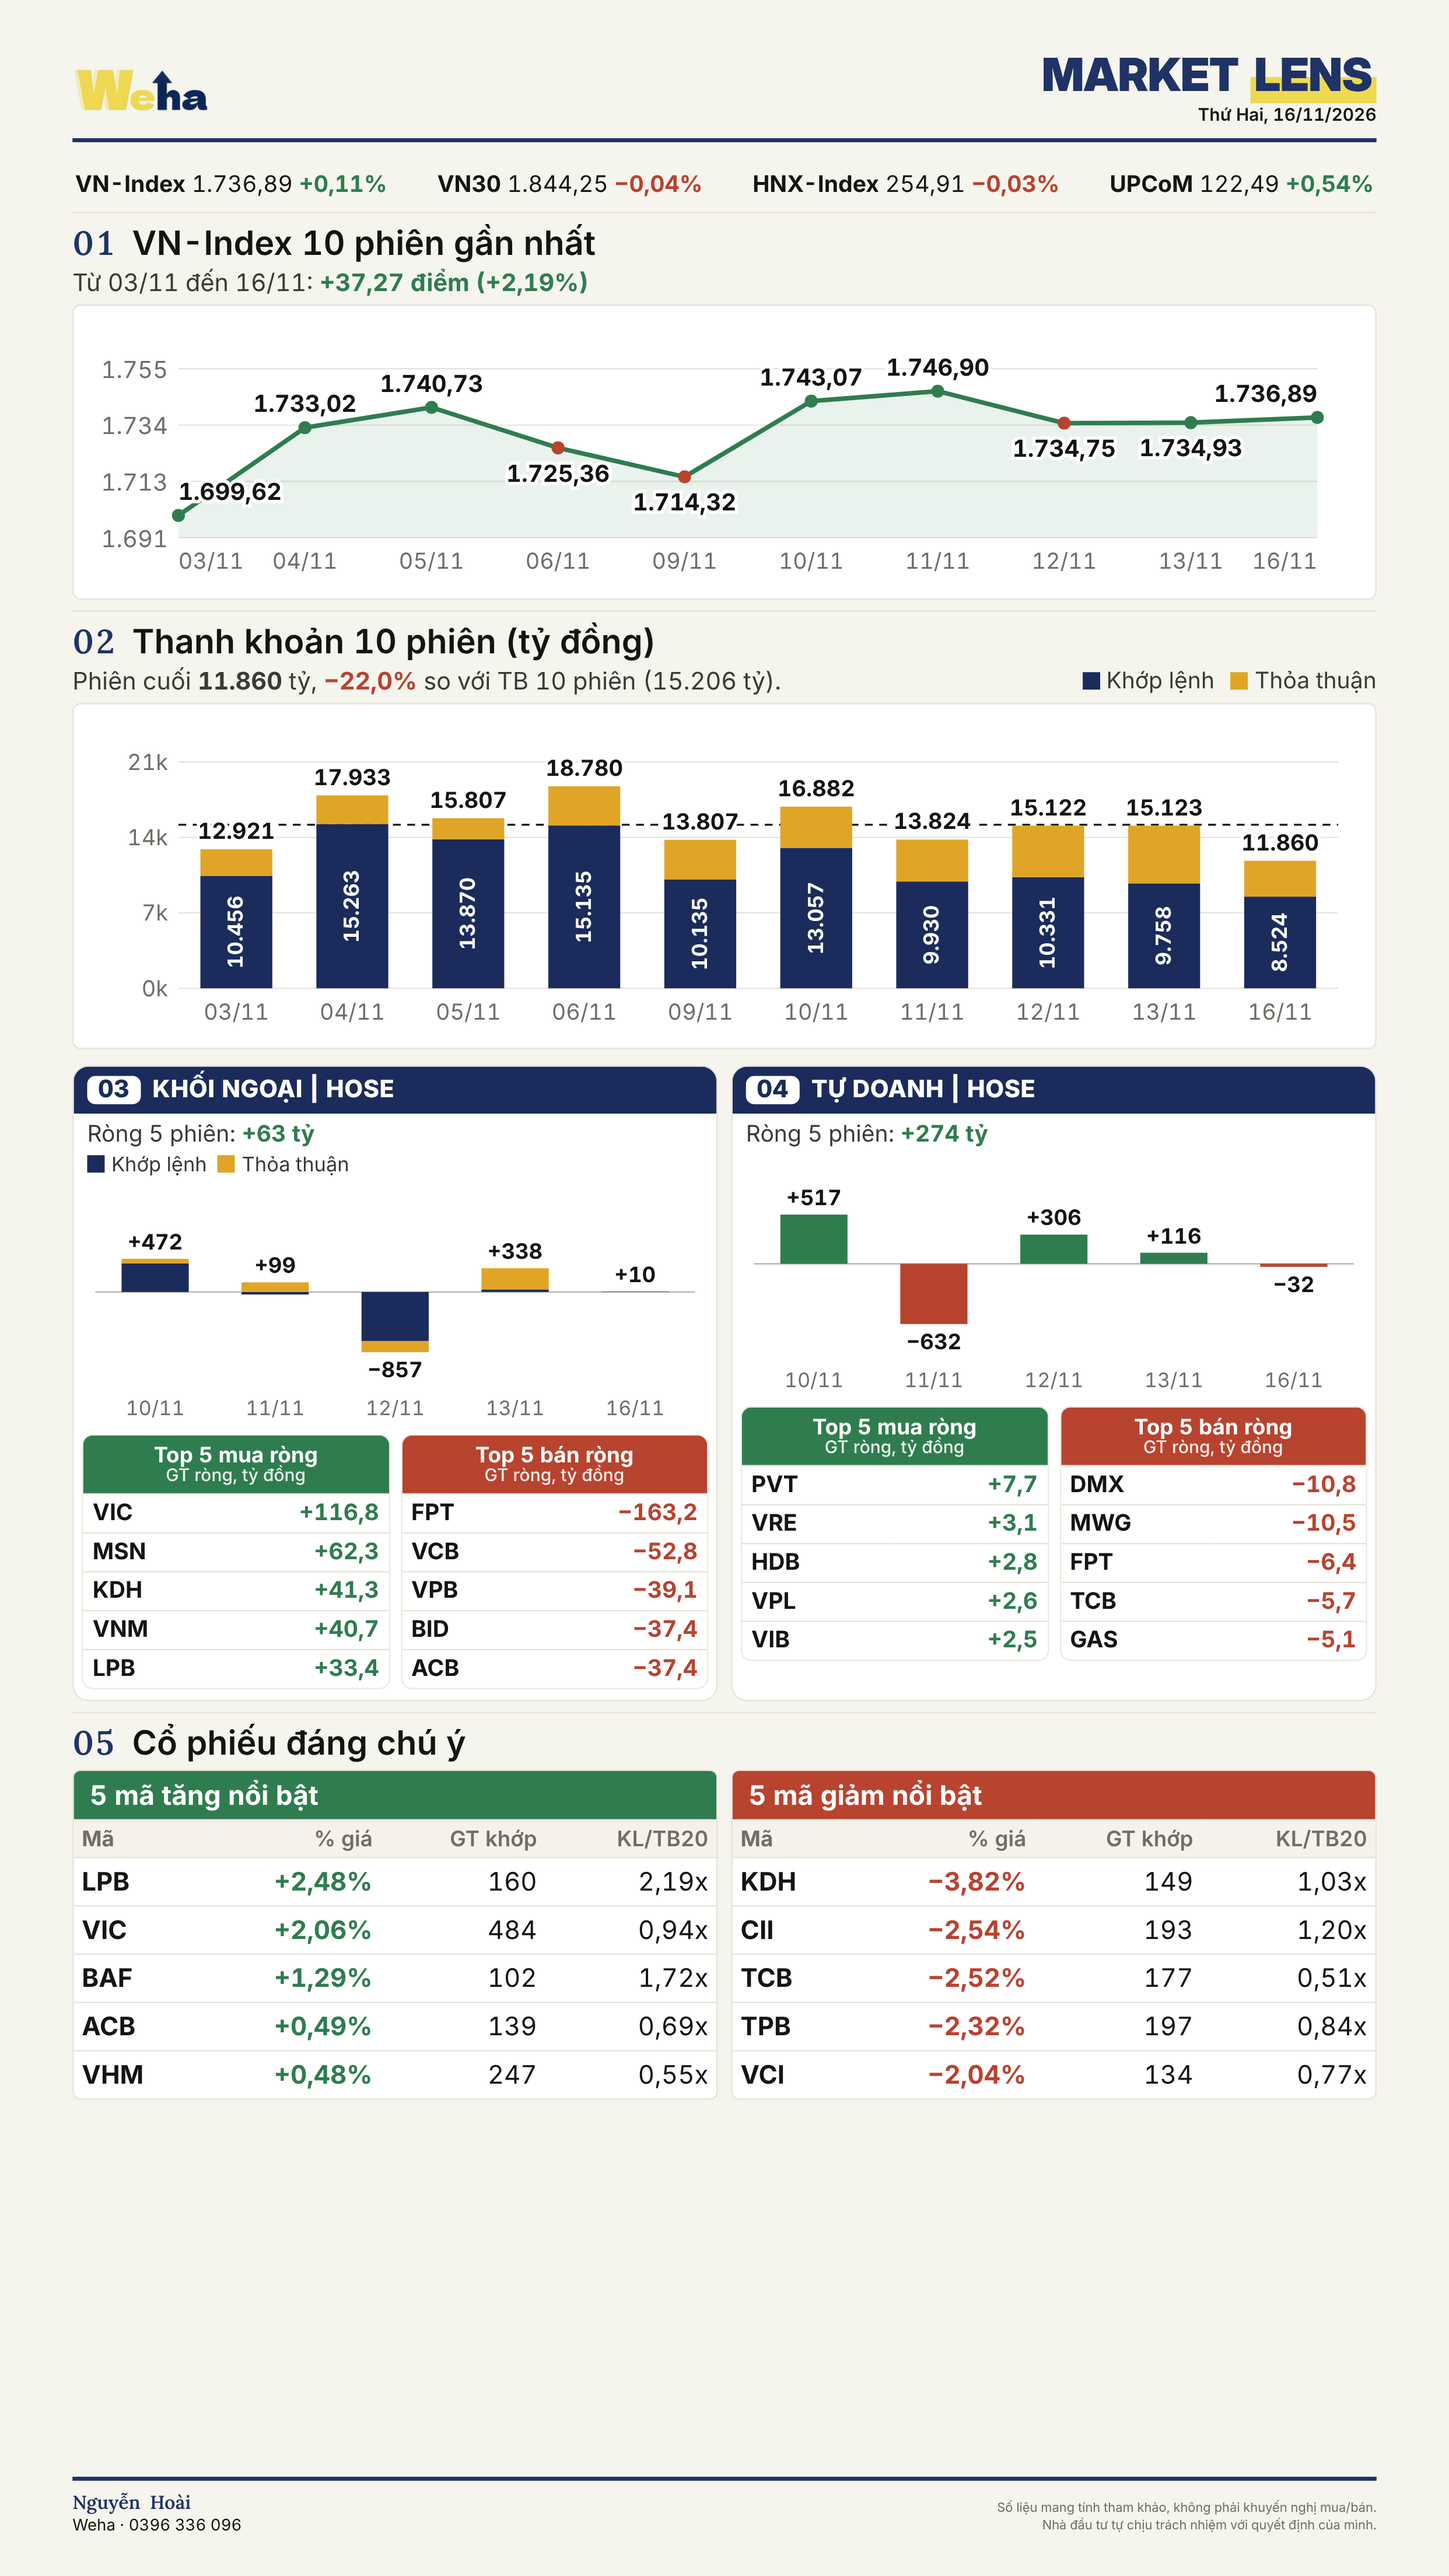
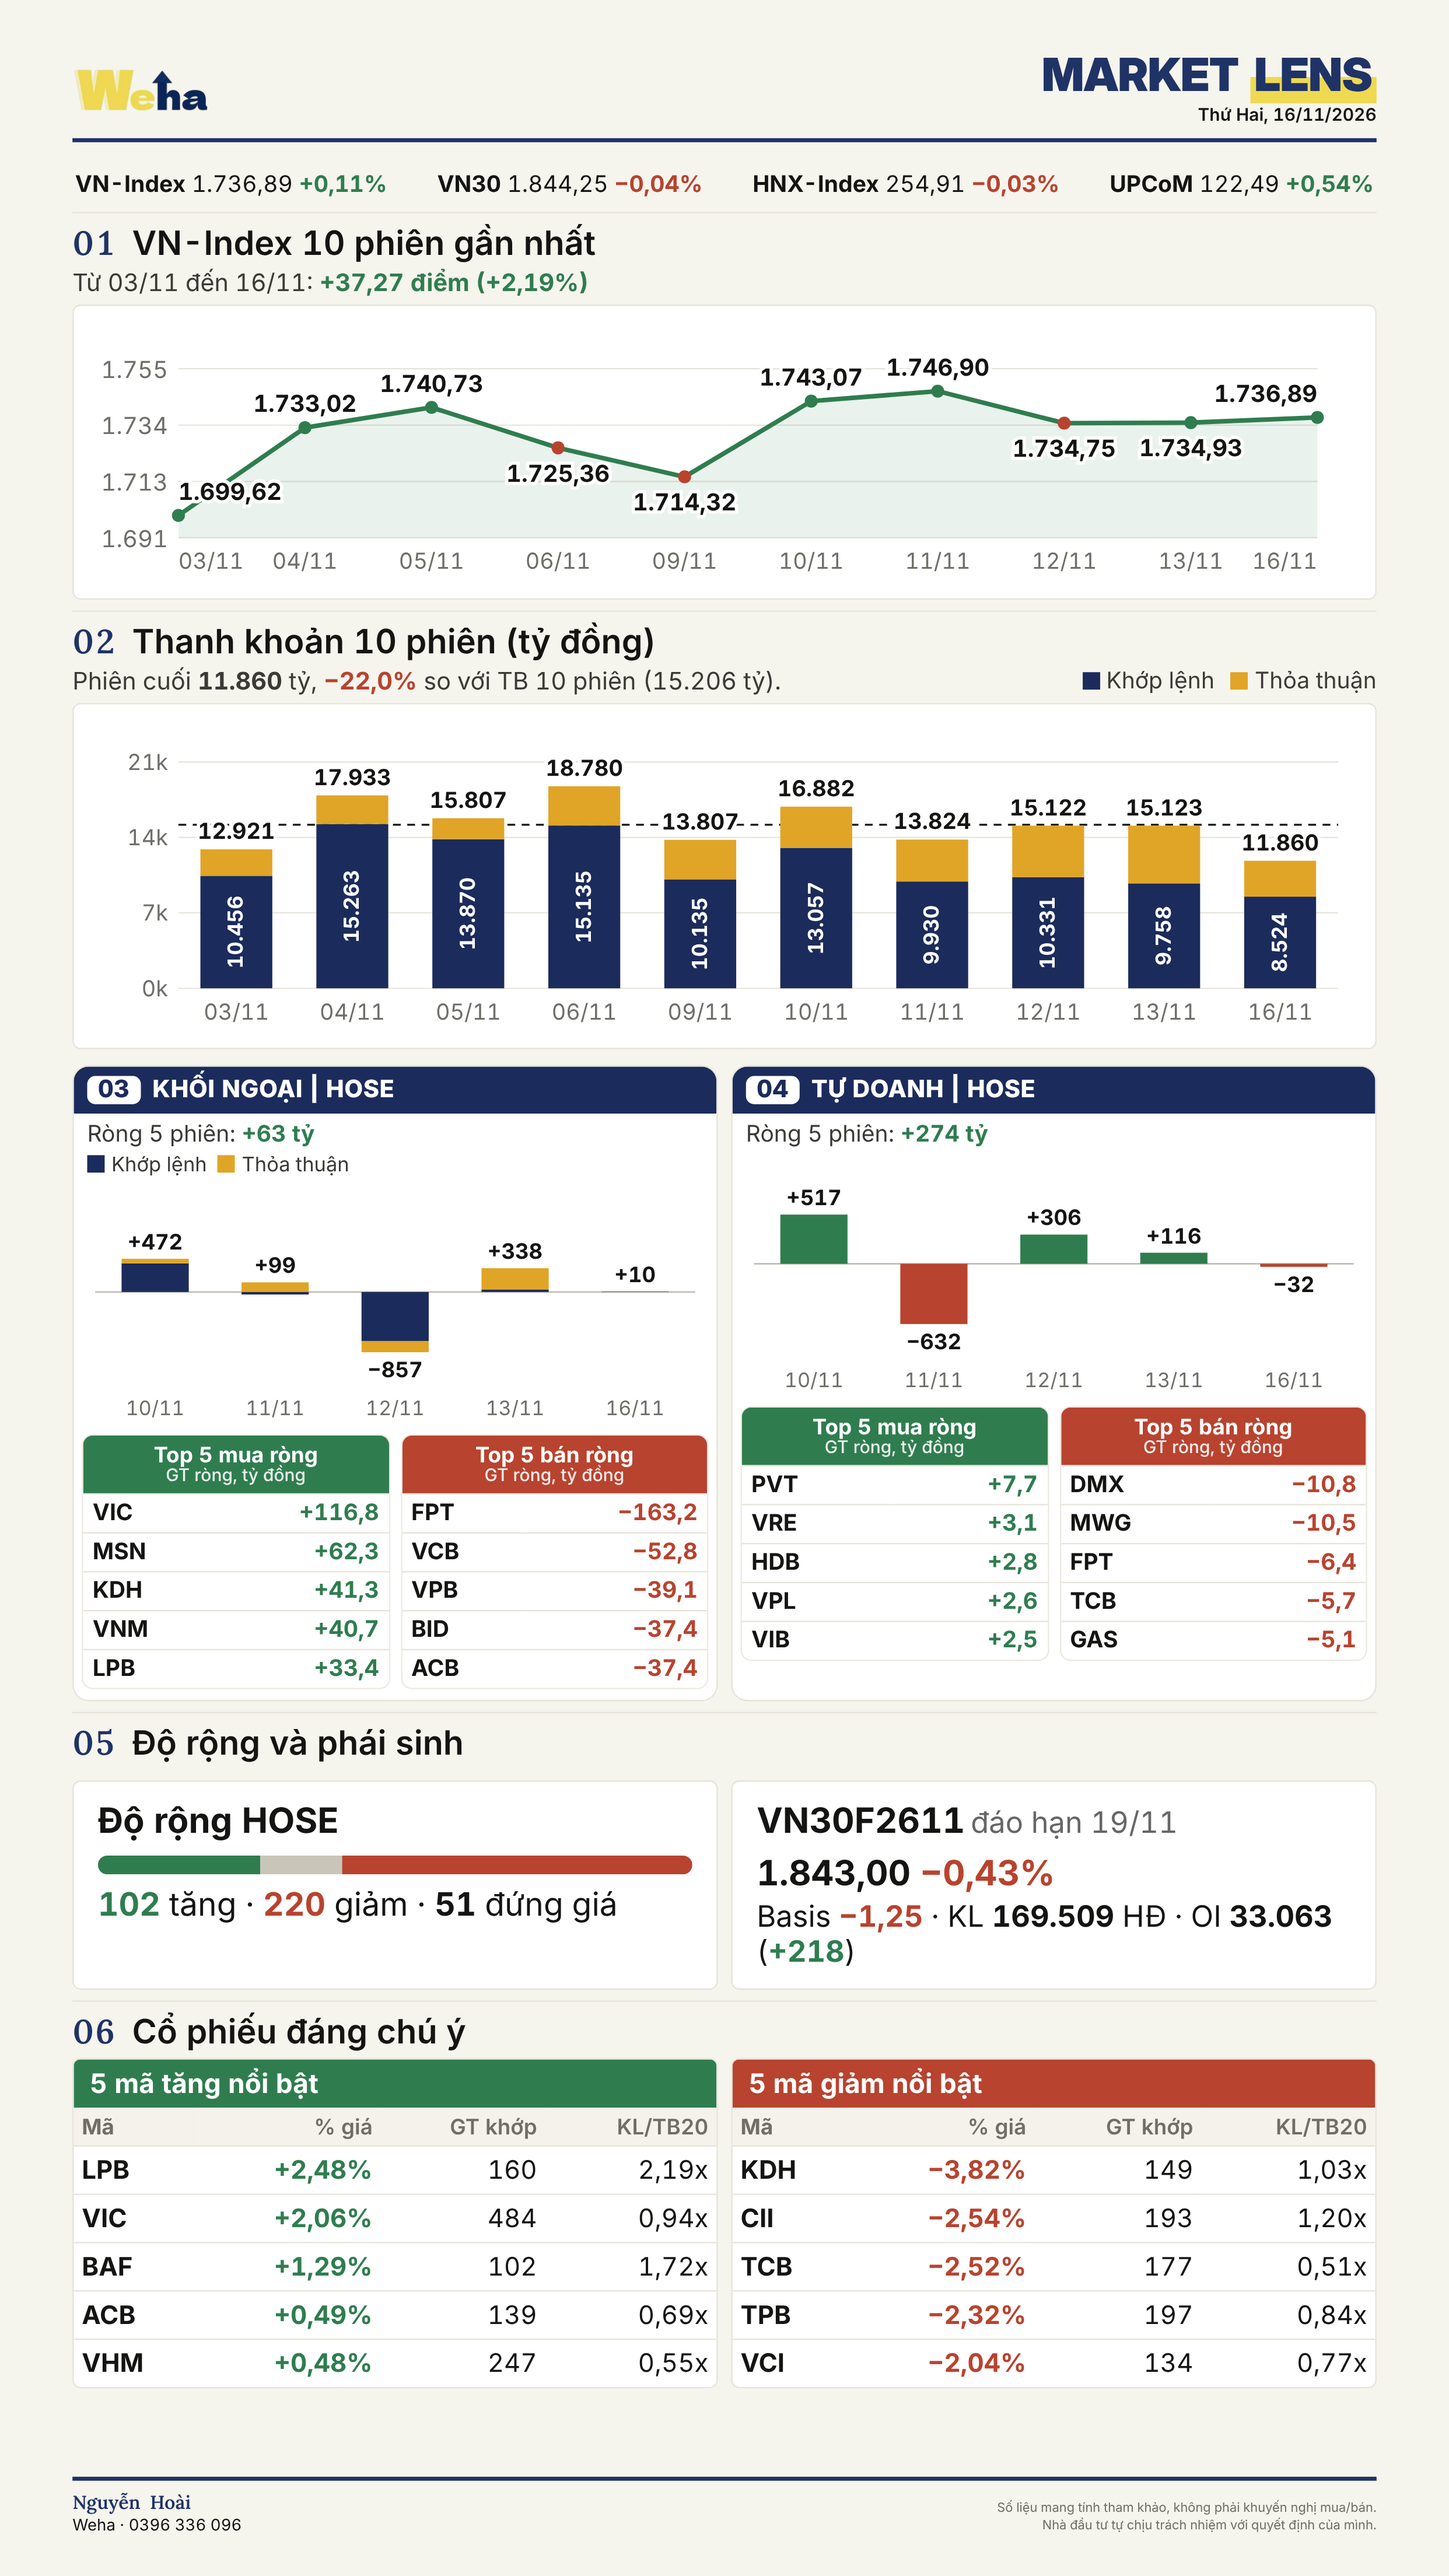
Thêm độ rộng HOSE và phái sinh VN30F vào bản tin cuối ngày 2026-11-16

Changed region(s): [[0.031, 0.6562, 0.961, 0.9375], [0.434, 0.875, 0.558, 0.9062]]

diff --git a/scripts/weha_phien_dt.py b/scripts/weha_phien_dt.py
@@ -453,11 +453,35 @@ def page_cuoi_1p(d):
     if sf:
         n += 1
         parts.append(f'<h2><span class="no">{n:02d}</span> Dòng tiền theo ngành</h2>{sector_flow_card(sf, 4)}')
+    bd = breadth_deriv_cards(d)
+    if bd:
+        n += 1
+        parts.append(f'<h2><span class="no">{n:02d}</span> Độ rộng và phái sinh</h2>{bd}')
     nt = d.get("notable") or {}
     if nt.get("up") or nt.get("down"):
         n += 1
         parts.append(f'<h2><span class="no">{n:02d}</span> Cổ phiếu đáng chú ý</h2>{notable_pair(nt)}')
     return '<div class="c1p">' + "".join(parts) + "</div>"
+
+def breadth_deriv_cards(d):
+    """Độ rộng HOSE (d["breadth"]) và phái sinh VN30F (d["deriv"]) — hai thẻ cạnh nhau."""
+    cards = []
+    b = d.get("breadth")
+    if b:
+        up, dn, fl = b["up"], b["down"], b["flat"]; tot = max(up + dn + fl, 1)
+        bar = (f'<div style="display:flex;height:14px;border-radius:7px;overflow:hidden;margin:10px 0 8px">'
+               f'<i style="width:{up/tot*100:.1f}%;background:{GREEN}"></i><i style="width:{fl/tot*100:.1f}%;background:#C9C5B8"></i><i style="width:{dn/tot*100:.1f}%;background:{RED}"></i></div>')
+        cards.append(f'<div class="card" style="padding:14px 18px"><b style="font-size:26px">Độ rộng HOSE</b>{bar}'
+                     f'<div style="font-size:24px"><b class="pos">{vn(up)}</b> tăng · <b class="neg">{vn(dn)}</b> giảm · <b>{vn(fl)}</b> đứng giá</div></div>')
+    f = d.get("deriv")
+    if f:
+        pc = f["chg_pct"]; ba = f.get("basis")
+        l1 = f'<b style="font-size:26px">{esc(f["name"])}</b> <span style="font-size:22px;color:#666">{esc(f.get("note", ""))}</span>'
+        l2 = f'<div style="font-size:26px;margin:8px 0 4px"><b>{vn(f["price"], 2)}</b> <b class="{"pos" if pc >= 0 else "neg"}">{vn(pc, 2, True)}%</b></div>'
+        l3 = '<div style="font-size:22px">' + (f'Basis <b class="{"pos" if ba >= 0 else "neg"}">{vn(ba, 2, True)}</b> · ' if ba is not None else "") + f'KL <b>{vn(f["vol"])}</b> HĐ · OI <b>{vn(f["oi"])}</b>' + (f' (<b class="{"pos" if f["oi_chg"] >= 0 else "neg"}">{vn(f["oi_chg"], 0, True)}</b>)' if f.get("oi_chg") is not None else "") + '</div>'
+        cards.append(f'<div class="card" style="padding:14px 18px">{l1}{l2}{l3}</div>')
+    if not cards: return ""
+    return f'<div class="grid g2" style="margin-top:12px">{"".join(cards)}</div>'
 
 def sector_flow_card(rows, n=12):
     """rows: [[ngành, GT khớp tỷ, % so TB20, % giá]] — sắp theo GT giảm dần."""
